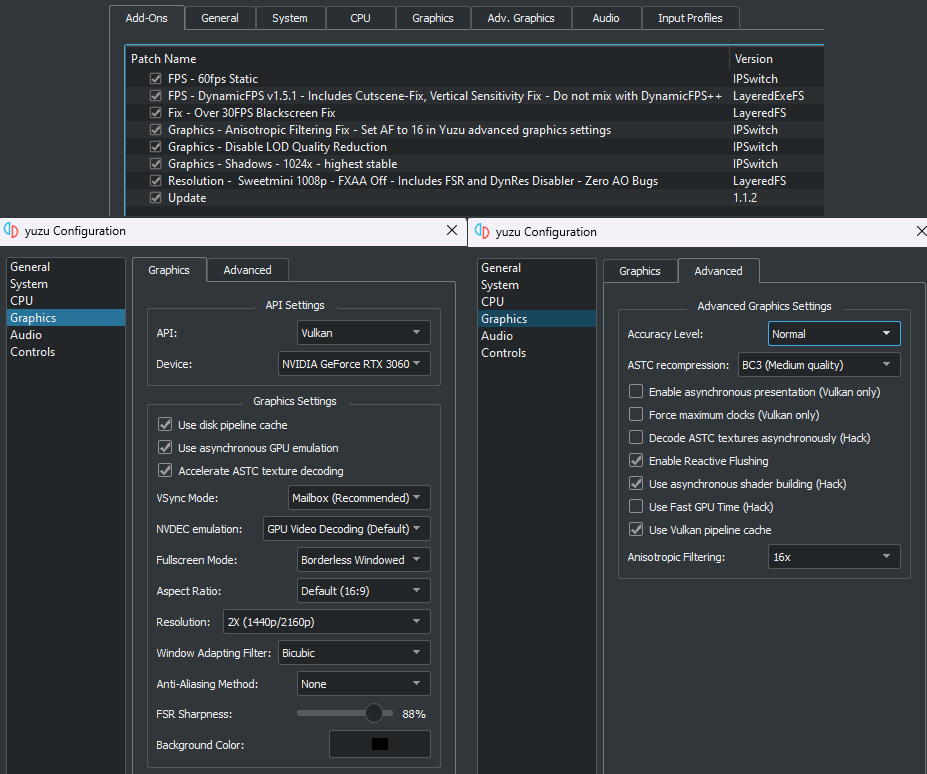
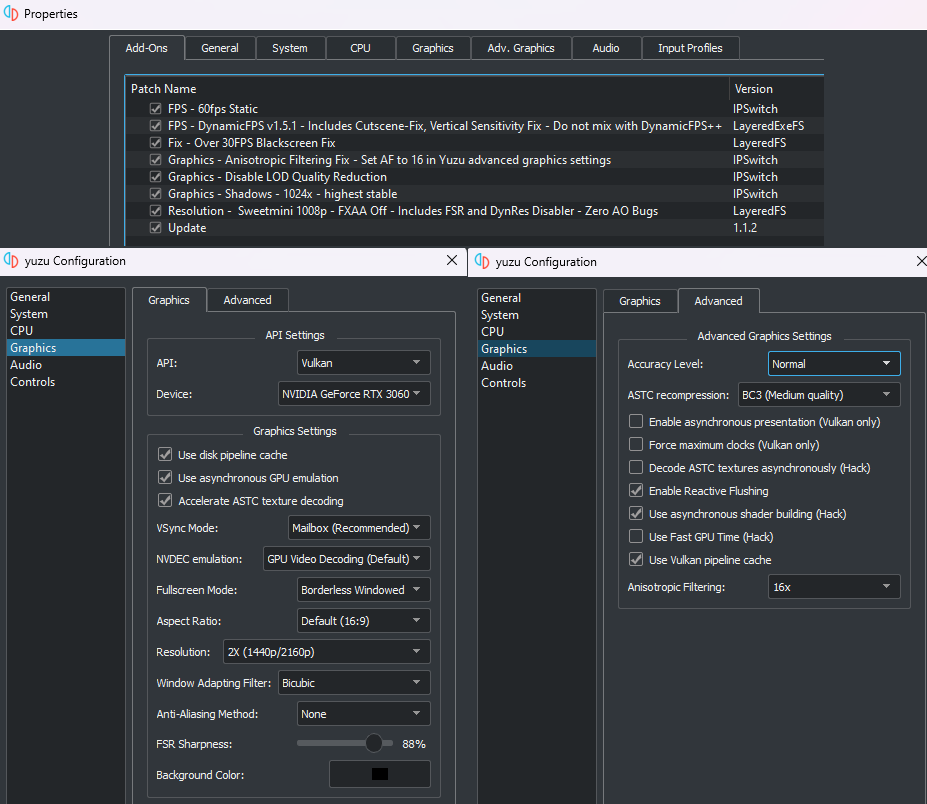
Updated Setup image

Changed region(s): [[0.0, 0.0, 1.0, 0.9612], [0.1812, 0.9612, 0.2718, 0.9922]]

diff --git a/README.md b/README.md
@@ -7,9 +7,6 @@
 ## [![Downloads badge](https://img.shields.io/github/downloads/HolographicWings/TOTK-Mods-collection/total.svg?style=for-the-badge)](https://github.com/HolographicWings/TOTK-Mods-collection/releases)
 
 ## Recommended setup :
-
-![Recommended Settings](Guide/Readme_Recommendations.png)
-
 - **Mods:**
   - Resolution - SweetMini 1008p - FXAA Off
   - FPS - 60fps Static
@@ -45,6 +42,10 @@
   - Use Fast GPU Time: Off
   - Use Vulkan Pipeline Cache: On
   - Anisotropic Filtering: x16 - Install the mod "Anisotropic Filtering Fix" to work. Switch back to Default if you have bugs on AMD cards.
+
+- After setup your configurations should look like this:
+
+![Recommended Settings](Guide/Readme_Recommendations.png)
 
 - **Ryujinx settings:**
   - Need more documentation  
